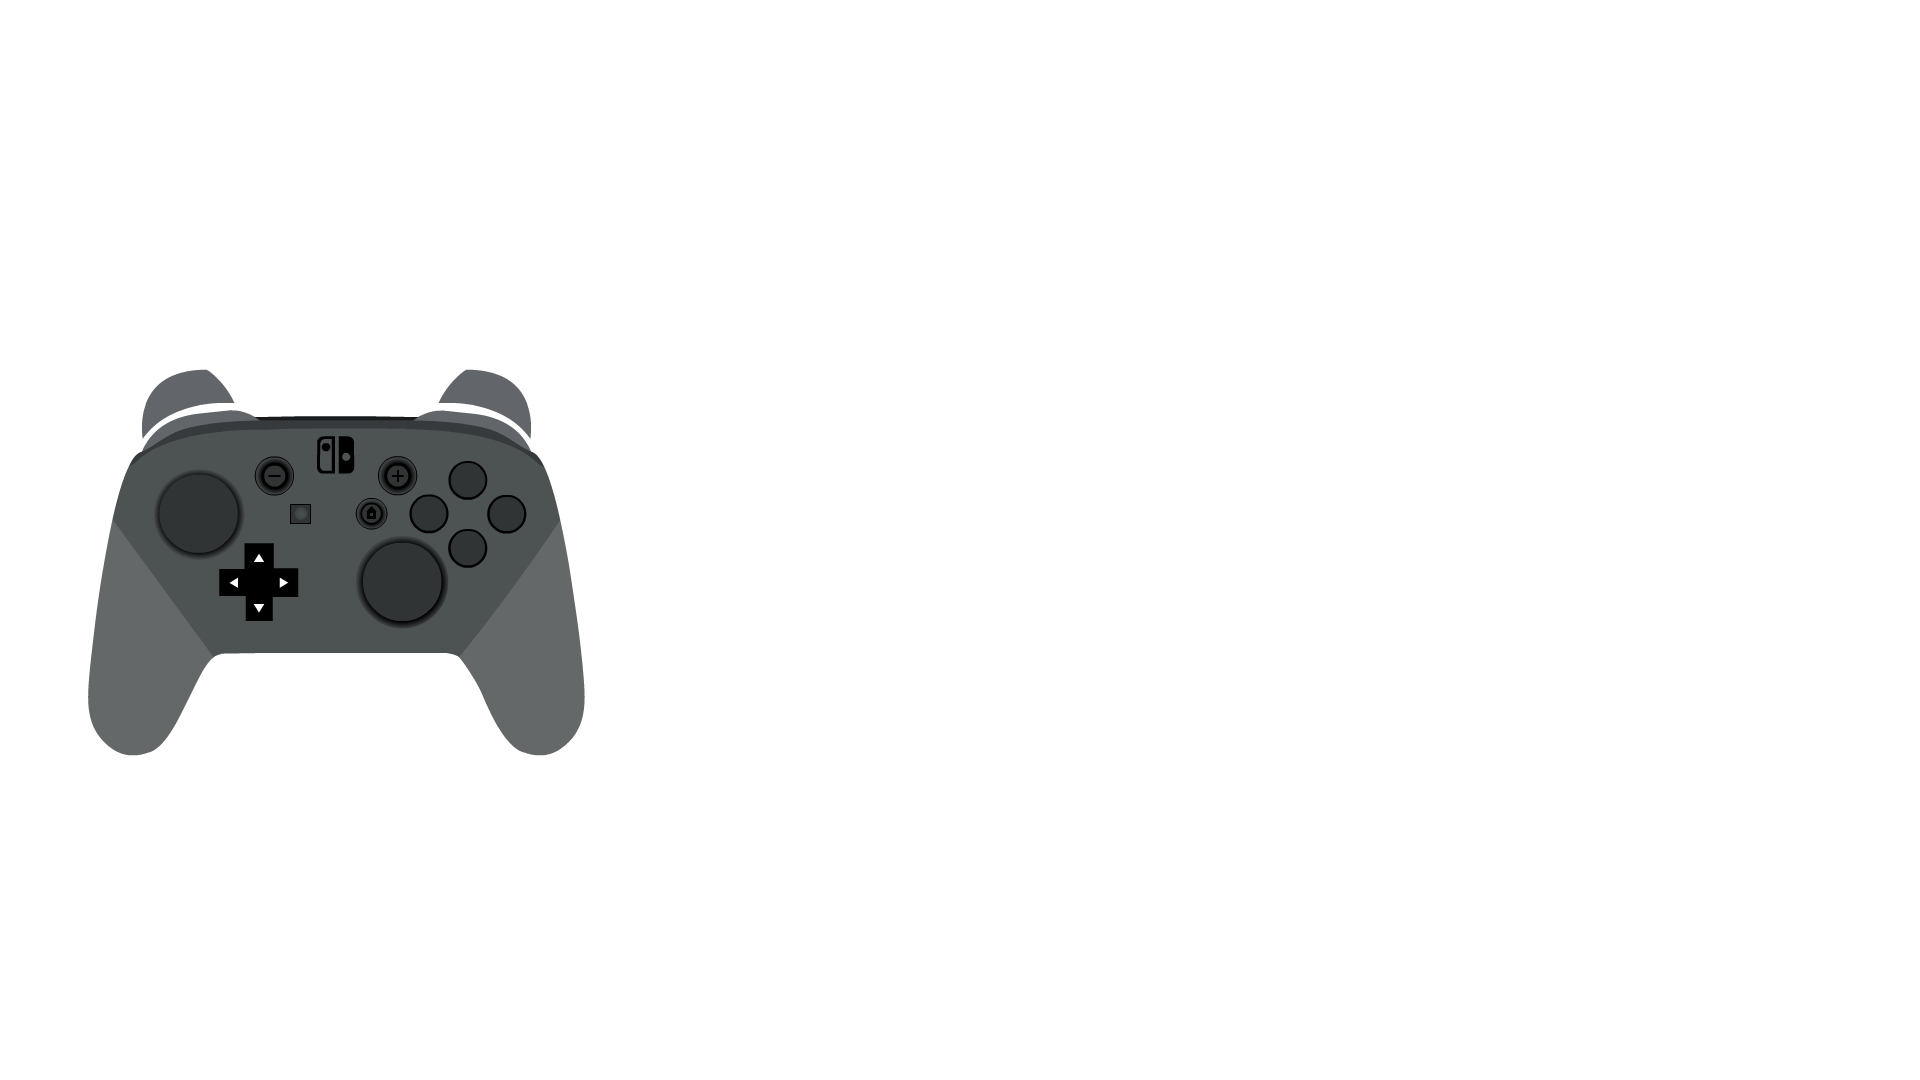
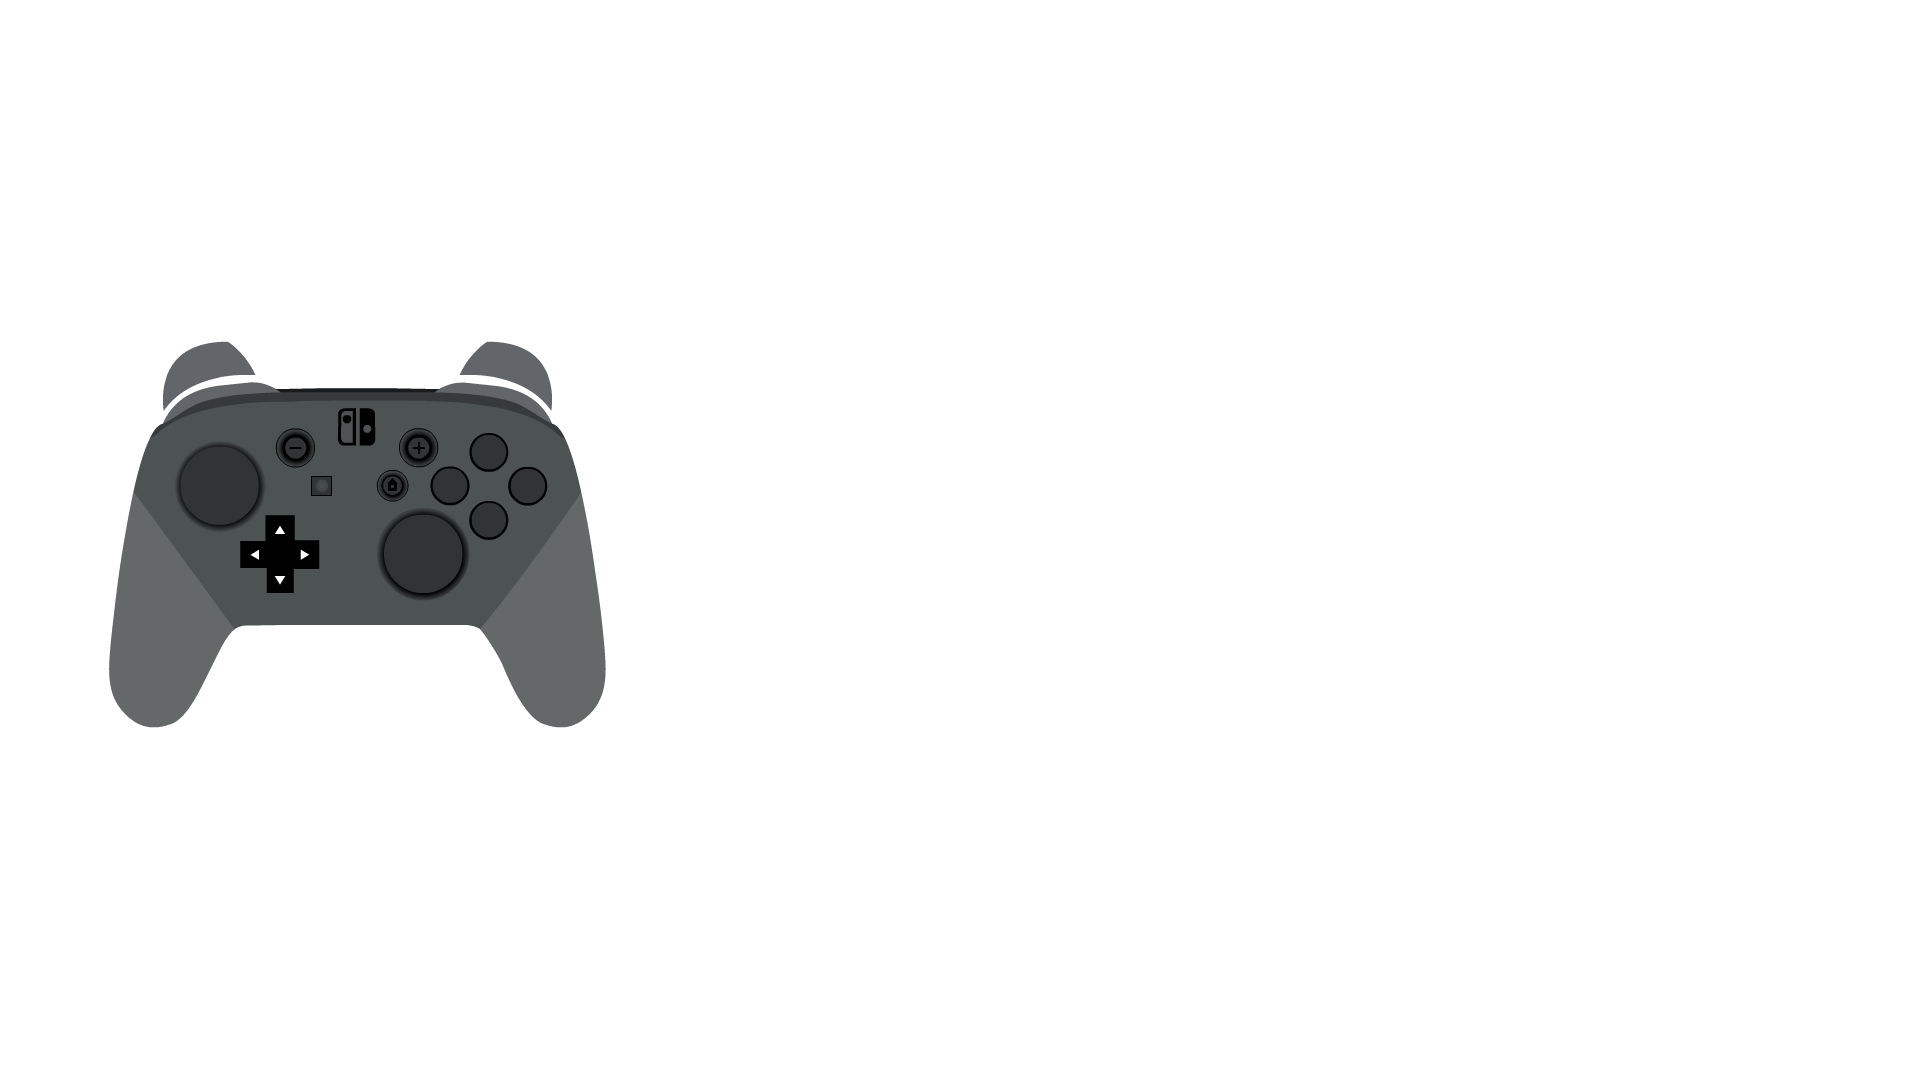
adserdf afdsafds fds f dsbcv bxvbx

Changed region(s): [[0.0312, 0.3056, 0.3125, 0.7028]]

diff --git a/style.css b/style.css
@@ -55,15 +55,15 @@ do so via my Imraising page: https://imraising.tv/u/mrmcpowned
     display: none;
 }
 .custom .triggers{ /* The triggers are housed inside a div, so this sizes the div properly and positions it */
-    width: 586px;
-    height: 65px;
+    width: 498px;
+    height: 70px;
     position: absolute;
-    left: 99px;
+    left: 54px;
 }
 .custom .trigger{/* These are the actual triggers themselves */
-    width:86px;
-    height:65px;
-    background: url(https://i.imgur.com/ncYGIYp.png);
+    width:93px;
+    height:70px;
+    background: url(Triggers.png);
     opacity: 0;
 }
 /* The left and right classes below are used to position the triggers
@@ -72,9 +72,11 @@ to the size of the parent element, we simply resize the parent element
 above to achieve the desired position. */
 .custom .trigger.left{ 
     float: left;
+	background-position: 0 0;
 }
 .custom .trigger.right{
     float: right;
+	transform: rotateY(180deg);
 }
 
 /* The bumpers follow the same methodology as the triggers in terms of
@@ -181,21 +183,21 @@ start and select buttons. */
     background-position-y: -40px;
     margin-top: 0px;
 }
-.custom .b{
+.custom .a{
     background-position: 40px 0;
     top: 67px;
     left: 39px;
 }
-.custom .a{
+.custom .b{
     background-position: 80px 0;
     top: 33px;
     right: 0px;
 }
-.custom .y{
+.custom .x{
     background-position: 0 0;
     top: 33px;
 }
-.custom .x{
+.custom .y{
     background-position: 120px 0;
     left: 39px;
 }
